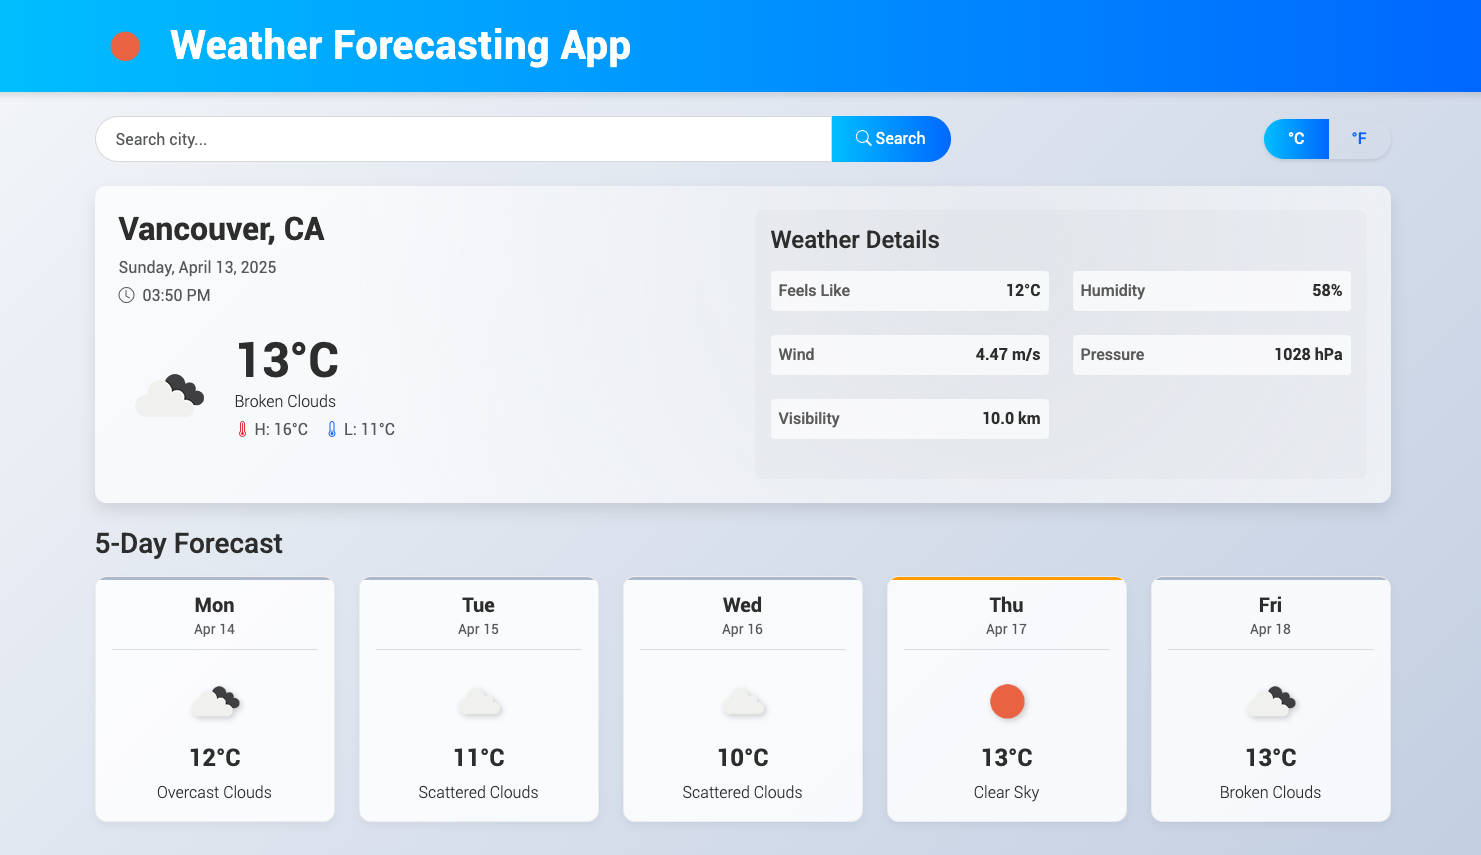
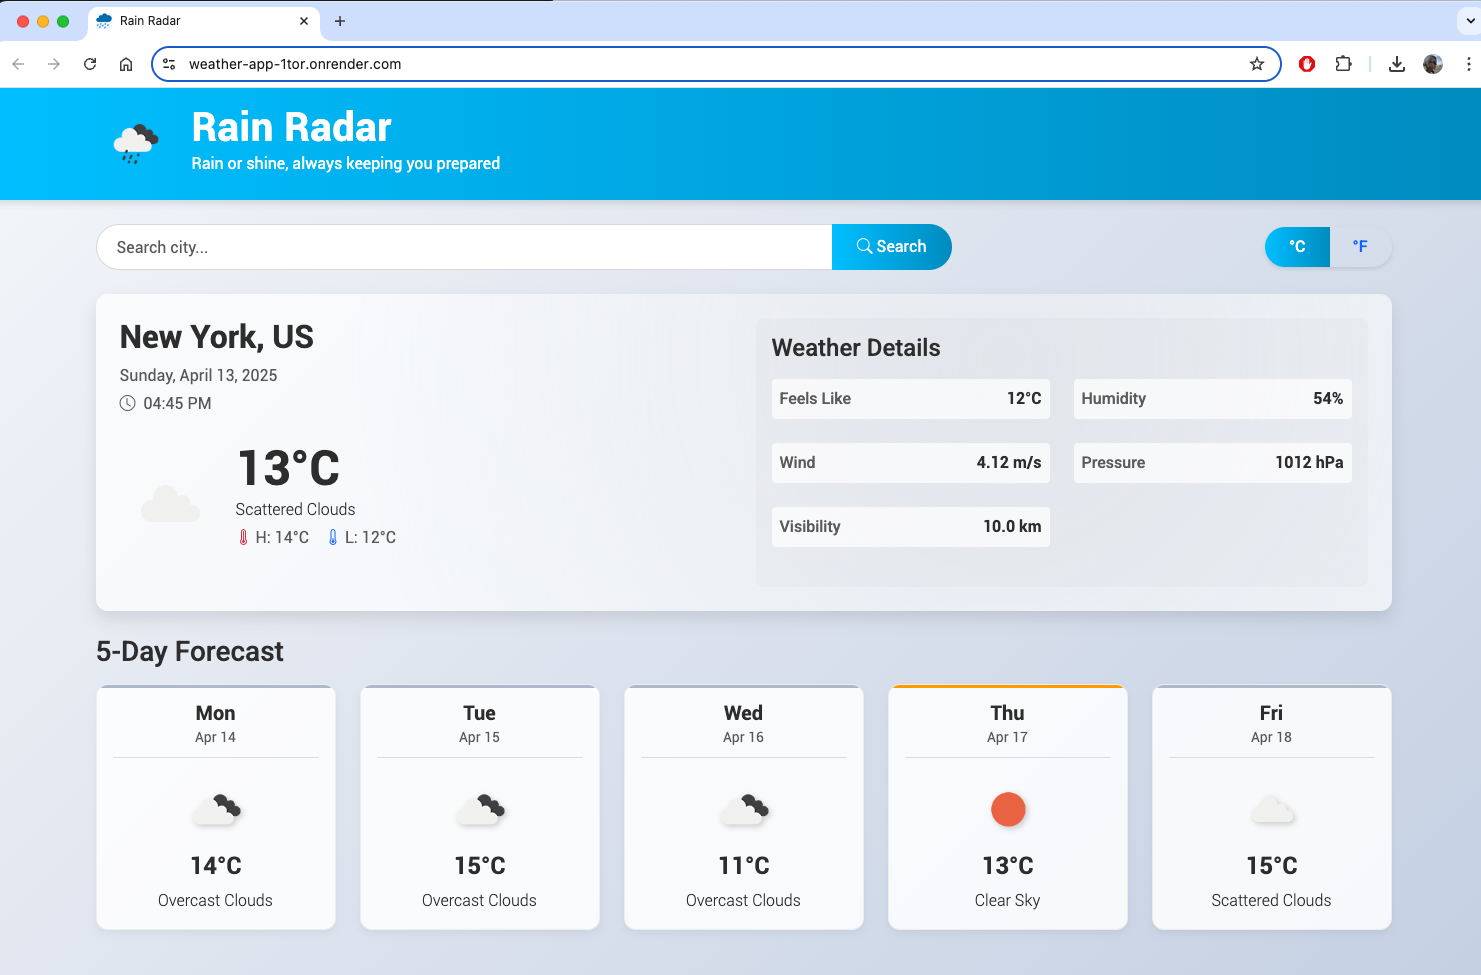
Design updates

diff --git a/README.md b/README.md
@@ -1,4 +1,4 @@
-# Weather Forecasting App
+# Rain Radar
 
 A modern, responsive React application for checking weather forecasts using the OpenWeatherMap API.
 
